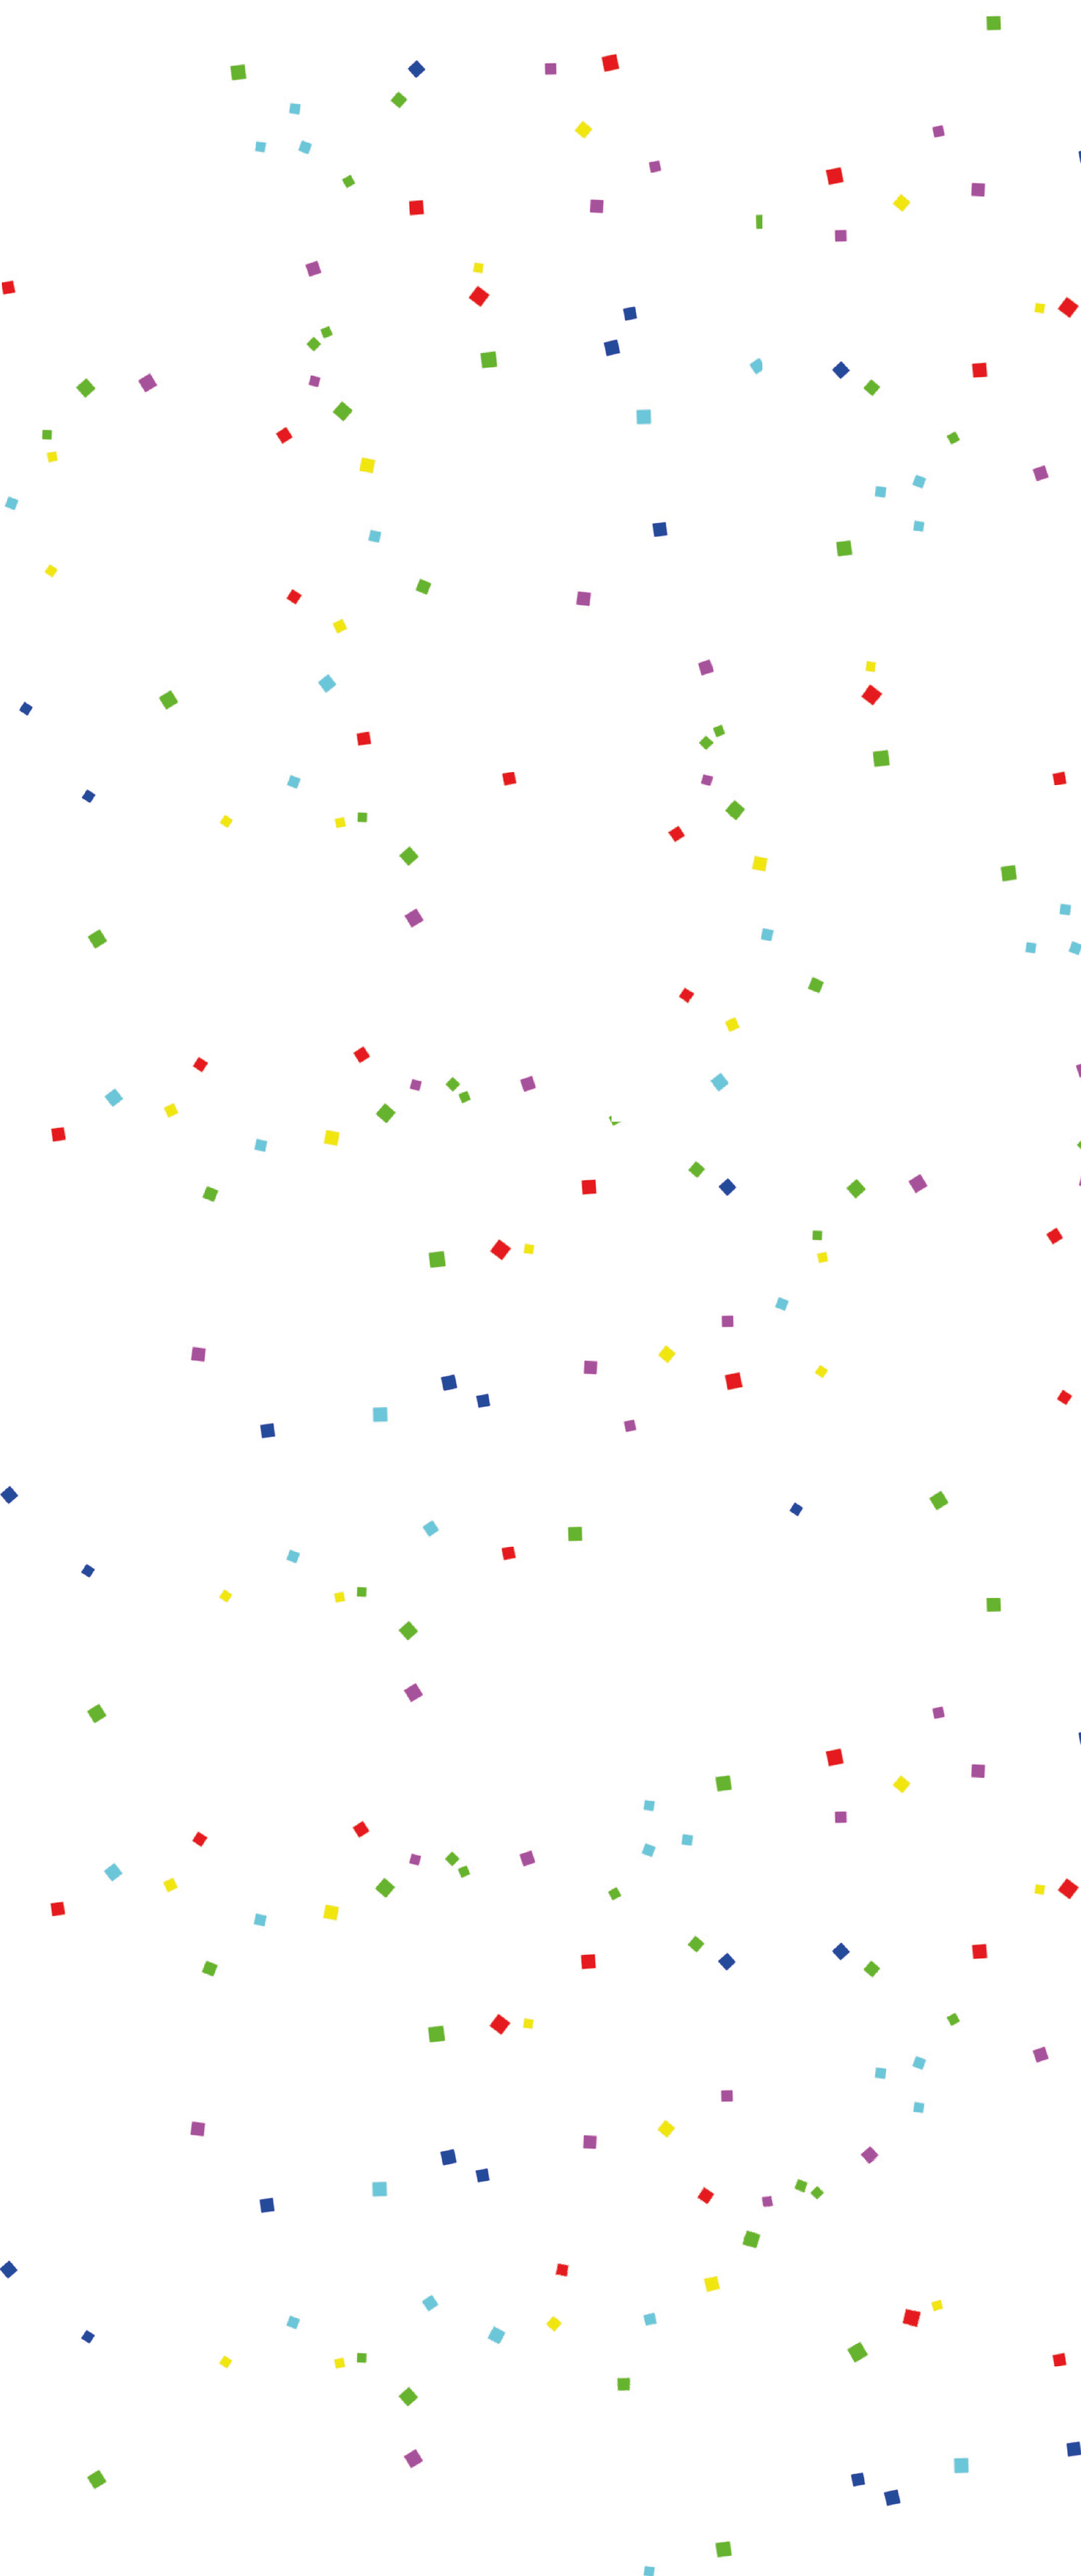
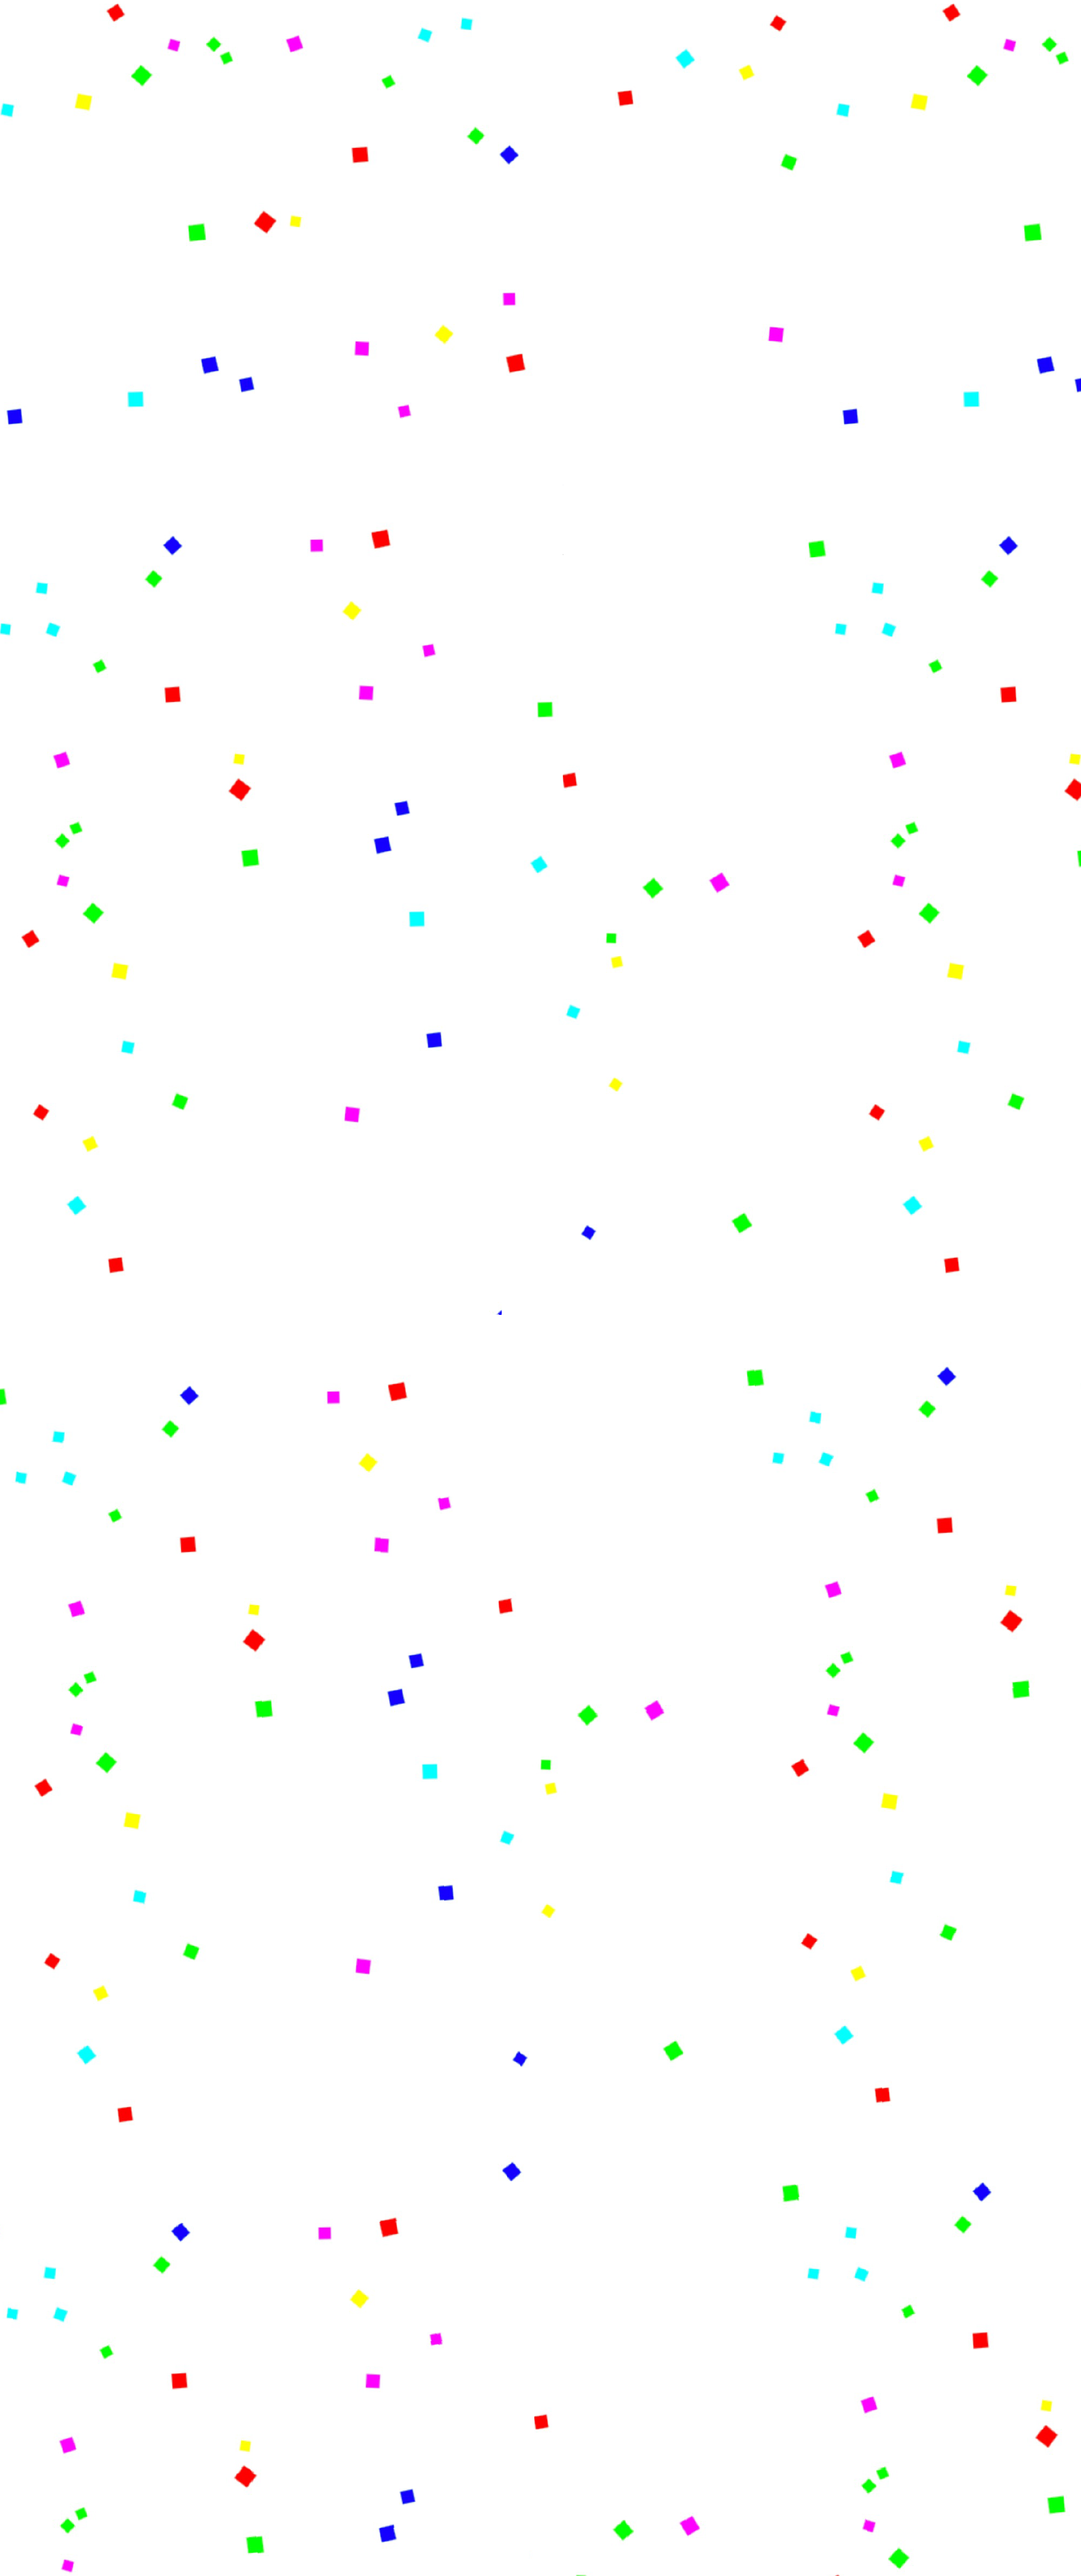
achtergrond

diff --git a/The-Cake-Calendar-master/css/stylesheet.css b/The-Cake-Calendar-master/css/stylesheet.css
@@ -6,7 +6,7 @@ html{
 }
 
 body {
-	background: url("../images/achtergrond_confetti_Tekengebied 1.png");
+	background:url("../images/achtergrond_confetti_Tekengebied 1.png");
 	background-size: contain;
 }
 
@@ -296,6 +296,7 @@ body {font-family: Verdana, sans-serif;}
 	padding-top: 70px;
 	font-family: 'Oswald', sans-serif;
 	color:#F6A247;
+	background-color: white;
 }
 
 .titlebirthdaycontainer {
